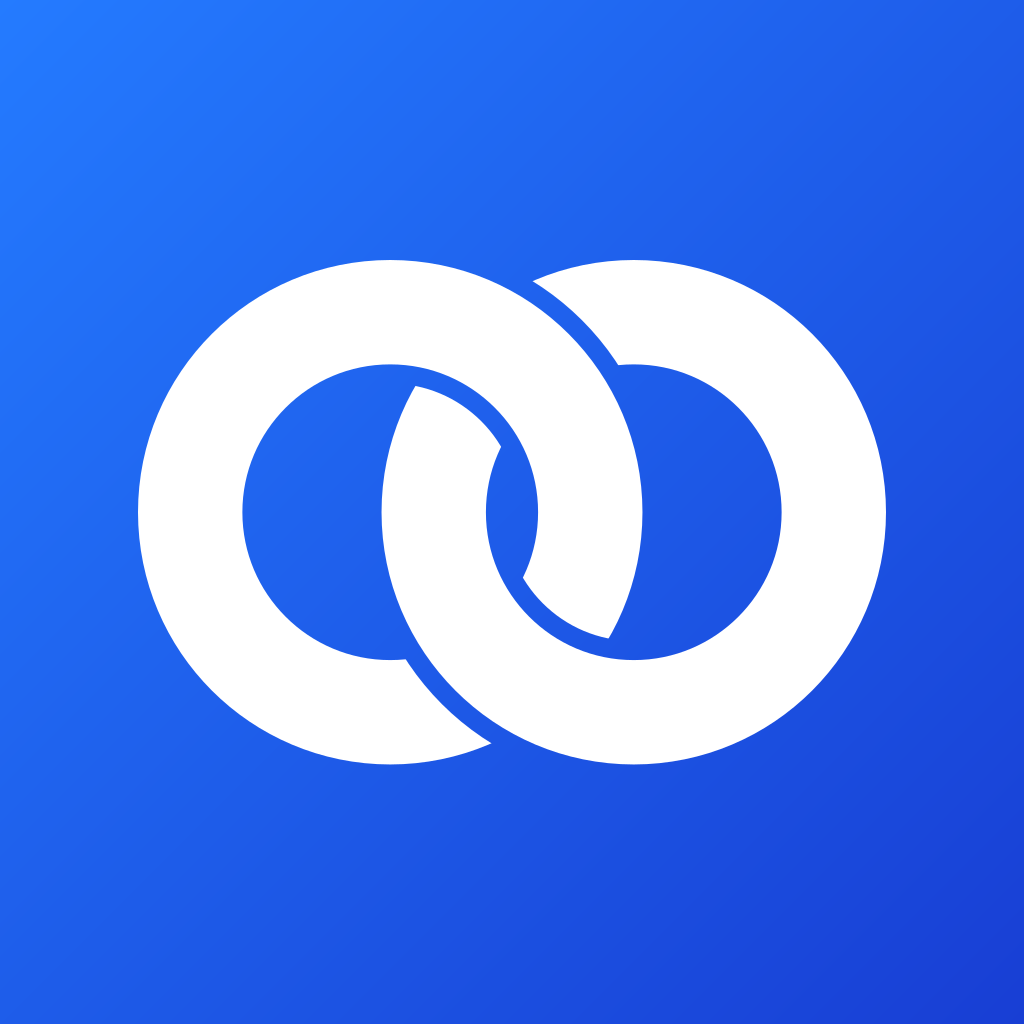
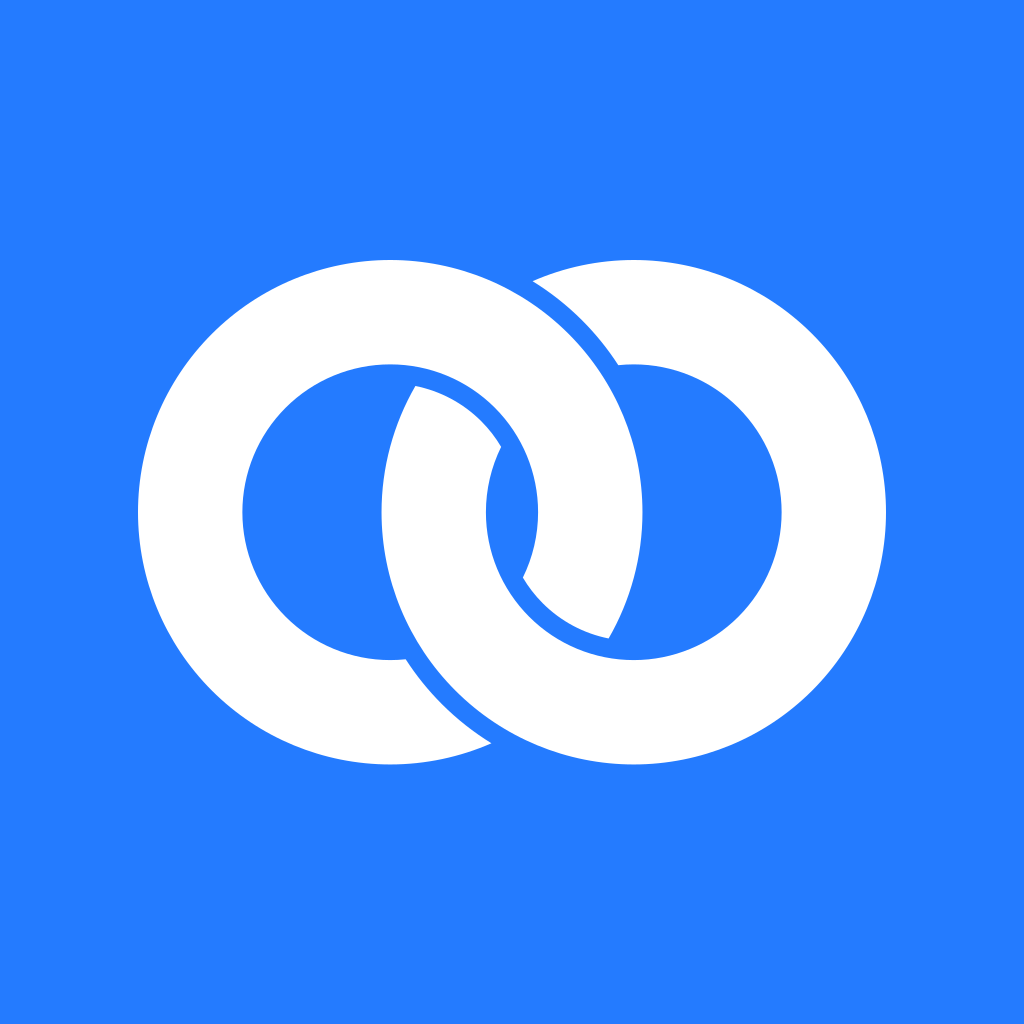
Use solid blue Oath artwork across app and website

diff --git a/Website/public/help/site-chrome.css b/Website/public/help/site-chrome.css
@@ -43,7 +43,7 @@
 .oath-site-header .oath-header-32{position:fixed;top:clamp(10px,2vw,16px);left:0;right:0;z-index:50;display:flex;justify-content:center;padding:0 clamp(10px,3vw,16px);pointer-events:none}
 .oath-site-header .oath-header-33{pointer-events:auto;width:100%;max-width:1120px;height:clamp(54px,8vw,60px);display:flex;align-items:center;justify-content:space-between;gap:12px;padding:0 8px 0 clamp(14px,3vw,20px);border-radius:999px;background:rgba(255,255,255,.88);backdrop-filter:blur(18px) saturate(1.4);-webkit-backdrop-filter:blur(18px) saturate(1.4);box-shadow:inset 0 0 0 1px rgba(10,10,11,.1);transition:background .4s ease}
 .oath-site-header .oath-header-34{display:flex;align-items:center;gap:10px;min-height:44px;color:#0A0A0B;text-decoration:none}
-.oath-site-header .oath-header-35{display:block;width:30px;height:20px}
+.oath-site-header .oath-header-35{display:block;width:30px;height:30px}
 .oath-site-header .oath-header-36{font:600 19px/1 'Instrument Sans',sans-serif;letter-spacing:-.03em}
 .oath-site-header .oath-header-37{display:flex;gap:28px;font:500 14px/1 'Instrument Sans',sans-serif}
 .oath-site-header .oath-header-38{display:flex;align-items:center;min-height:44px;color:#62605A;text-decoration:none}
@@ -65,7 +65,7 @@
 .oath-site-footer .oath-footer-2{display:grid;grid-template-columns:repeat(auto-fit,minmax(min(100%,150px),1fr));gap:36px 32px}
 .oath-site-footer .oath-footer-3{display:flex;flex-direction:column;gap:14px;grid-column:auto}
 .oath-site-footer .oath-footer-4{display:flex;align-items:center;gap:10px}
-.oath-site-footer .oath-footer-5{display:block;width:30px;height:20px}
+.oath-site-footer .oath-footer-5{display:block;width:30px;height:30px}
 .oath-site-footer .oath-footer-6{font:600 20px/1 'Instrument Sans',sans-serif;letter-spacing:-.03em}
 .oath-site-footer .oath-footer-7{font:400 italic 22px/1.2 'Instrument Serif',serif;color:#62605A}
 .oath-site-footer .oath-footer-8{display:flex;flex-direction:column;gap:2px}

diff --git a/Website/public/index.html b/Website/public/index.html
@@ -142,7 +142,7 @@
     <div style="overflow-x:auto;margin:0 calc(-1 * clamp(20px,5vw,32px));padding:0 clamp(20px,5vw,32px) 8px">
       <div style="min-width:0;display:grid;grid-template-columns:minmax(120px,1fr) minmax(160px,1.4fr);border-radius:clamp(24px,3vw,32px);box-shadow:inset 0 0 0 1px rgba(242,240,234,.12);overflow:hidden">
         <div style="padding:22px clamp(18px,2.4vw,28px);border-bottom:1px solid rgba(242,240,234,.12)"></div>
-        <div style="padding:22px clamp(16px,2vw,24px);background:#F2F0EA;color:#0A0A0B;display:flex;align-items:center;gap:10px;border-bottom:1px solid rgba(10,10,11,.1)"><img src="{{ markLight }}" alt="Oath logo" style="display:block;width:30px;height:20px"><span style="font:600 18px/1 'Instrument Sans',sans-serif;letter-spacing:-.02em">Oath</span></div>
+        <div style="padding:22px clamp(16px,2vw,24px);background:#F2F0EA;color:#0A0A0B;display:flex;align-items:center;gap:10px;border-bottom:1px solid rgba(10,10,11,.1)"><img src="{{ markLight }}" alt="Oath logo" style="display:block;width:30px;height:30px"><span style="font:600 18px/1 'Instrument Sans',sans-serif;letter-spacing:-.02em">Oath</span></div>
         <sc-for list="{{ cmpRows }}" as="row" hint-placeholder-count="9">
           <div style="padding:20px clamp(18px,2.4vw,28px);border-bottom:1px solid rgba(242,240,234,.08);font:400 clamp(19px,1.8vw,24px)/1.2 'Instrument Serif',serif;display:flex;align-items:center;opacity:{{ row.o }};transform:{{ row.t }};transition:{{ row.tr }}">{{ row.k }}</div>
           <div style="padding:20px clamp(16px,2vw,24px);background:#F2F0EA;color:#0A0A0B;border-bottom:1px solid rgba(10,10,11,.08);display:flex;align-items:center;gap:10px;opacity:{{ row.o }};transform:{{ row.t }};transition:{{ row.tr }}">

diff --git a/Website/public/Oath Header.dc.html b/Website/public/Oath Header.dc.html
@@ -41,7 +41,7 @@
 </div>
 <header style="position:fixed;top:clamp(10px,2vw,16px);left:0;right:0;z-index:50;display:flex;justify-content:center;padding:0 clamp(10px,3vw,16px);pointer-events:none">
   <div style="pointer-events:auto;width:100%;max-width:1120px;height:clamp(54px,8vw,60px);display:flex;align-items:center;justify-content:space-between;gap:12px;padding:0 8px 0 clamp(14px,3vw,20px);border-radius:999px;background:{{ barBg }};backdrop-filter:blur(18px) saturate(1.4);-webkit-backdrop-filter:blur(18px) saturate(1.4);box-shadow:inset 0 0 0 1px rgba(242,240,234,.1);transition:background .4s ease">
-    <a href="{{ home }}" onClick="{{ close }}" style="display:flex;align-items:center;gap:10px;min-height:44px;color:#F2F0EA;text-decoration:none"><img src="{{ mark }}" alt="" style="display:block;width:30px;height:20px" role="presentation"><span style="font:600 19px/1 'Instrument Sans',sans-serif;letter-spacing:-.03em">Oath</span></a>
+    <a href="{{ home }}" onClick="{{ close }}" style="display:flex;align-items:center;gap:10px;min-height:44px;color:#F2F0EA;text-decoration:none"><img src="{{ mark }}" alt="" style="display:block;width:30px;height:30px" role="presentation"><span style="font:600 19px/1 'Instrument Sans',sans-serif;letter-spacing:-.03em">Oath</span></a>
     <nav style="display:{{ navD }};gap:28px;font:500 14px/1 'Instrument Sans',sans-serif">
       <sc-for list="{{ links }}" as="l" hint-placeholder-count="4">
         <a href="{{ l.href }}" style="display:flex;align-items:center;min-height:44px;color:{{ l.c }};text-decoration:none" style-hover="color:#FFFFFF">{{ l.label }}</a>

diff --git a/Website/public/Oath Footer.dc.html b/Website/public/Oath Footer.dc.html
@@ -16,7 +16,7 @@
   <div style="max-width:1320px;margin:0 auto;padding:56px clamp(20px,5vw,32px) 36px;display:flex;flex-direction:column;gap:clamp(40px,7vw,64px)">
     <div style="display:grid;grid-template-columns:repeat(auto-fit,minmax(min(100%,150px),1fr));gap:36px 32px">
       <div style="display:flex;flex-direction:column;gap:14px;grid-column:{{ span }}">
-        <div style="display:flex;align-items:center;gap:10px"><img src="{{ mark }}" alt="" style="display:block;width:30px;height:20px" role="presentation"><span style="font:600 20px/1 'Instrument Sans',sans-serif;letter-spacing:-.03em">Oath</span></div>
+        <div style="display:flex;align-items:center;gap:10px"><img src="{{ mark }}" alt="" style="display:block;width:30px;height:30px" role="presentation"><span style="font:600 20px/1 'Instrument Sans',sans-serif;letter-spacing:-.03em">Oath</span></div>
         <span style="font:400 italic 22px/1.2 'Instrument Serif',serif;color:#8E8C86">A wallet, not a marketplace.</span>
       </div>
       <sc-for list="{{ cols }}" as="col" hint-placeholder-count="3">

diff --git a/Tools/CheckAppIcons.py b/Tools/CheckAppIcons.py
@@ -19,6 +19,10 @@ parser.add_argument('--app', type=Path)
 args = parser.parse_args()
 manifest = json.loads((ROOT / 'Design/AppIcons/icon-manifest.json').read_text())
 assets = ROOT / 'OathApp/Assets.xcassets'
+master = (ROOT / 'Design/AppIcons/oath-solid-blue.svg').read_text()
+assert 'Gradient' not in master and 'url(' not in master, 'Default logo must stay flat'
+assert '#247BFF' in master and '#FFFFFF' in master
+assert hashlib.sha256(master.encode()).hexdigest() == manifest['icons'][0]['assets']['svg']['sha256']
 
 with tempfile.TemporaryDirectory(prefix='oath-app-icons-') as temporary:
     work = Path(temporary)
@@ -46,6 +50,7 @@ enum TestFailure: Error { case rejected }
     }
 }
 enum OathDiagnostics {
+    static func isExpectedCancellation(_ error: Error) -> Bool { error is CancellationError }
     @TaskLocal static var operationID: UUID?
     @MainActor static var failures = 0
     @MainActor static func record(_ error: Error, component: String, operation: String) {
@@ -187,9 +192,9 @@ for row, icon in zip(rows, manifest['icons']):
 assert {p.stem for p in assets.glob('*.appiconset') if p.is_dir()} == {r['asset'] for r in rows}
 assert {p.stem for p in assets.glob('IconPreview-*.imageset') if p.is_dir()} == {r['preview'] for r in rows}
 alternates = ' '.join(r['asset'] for r in rows[1:])
-assert (ROOT / 'project.yml').read_text().count(alternates) == 1
+assert ' '.join((ROOT / 'project.yml').read_text().split()).count(alternates) == 1
 assert (ROOT / 'OathAtmosphere.xcodeproj/project.pbxproj').read_text().count(alternates) == 2
-print('Passed: 10 exact original icons/previews; default, all alternatives, reset, upgrade, failure, concurrency and relaunch selection checks (mock UIKit).')
+print('Passed: 10 manifest-matched icons/previews; default, all alternatives, reset, upgrade, failure, concurrency and relaunch selection checks (mock UIKit).')
 
 if args.app:
     info = plistlib.loads((args.app / 'Info.plist').read_bytes())
